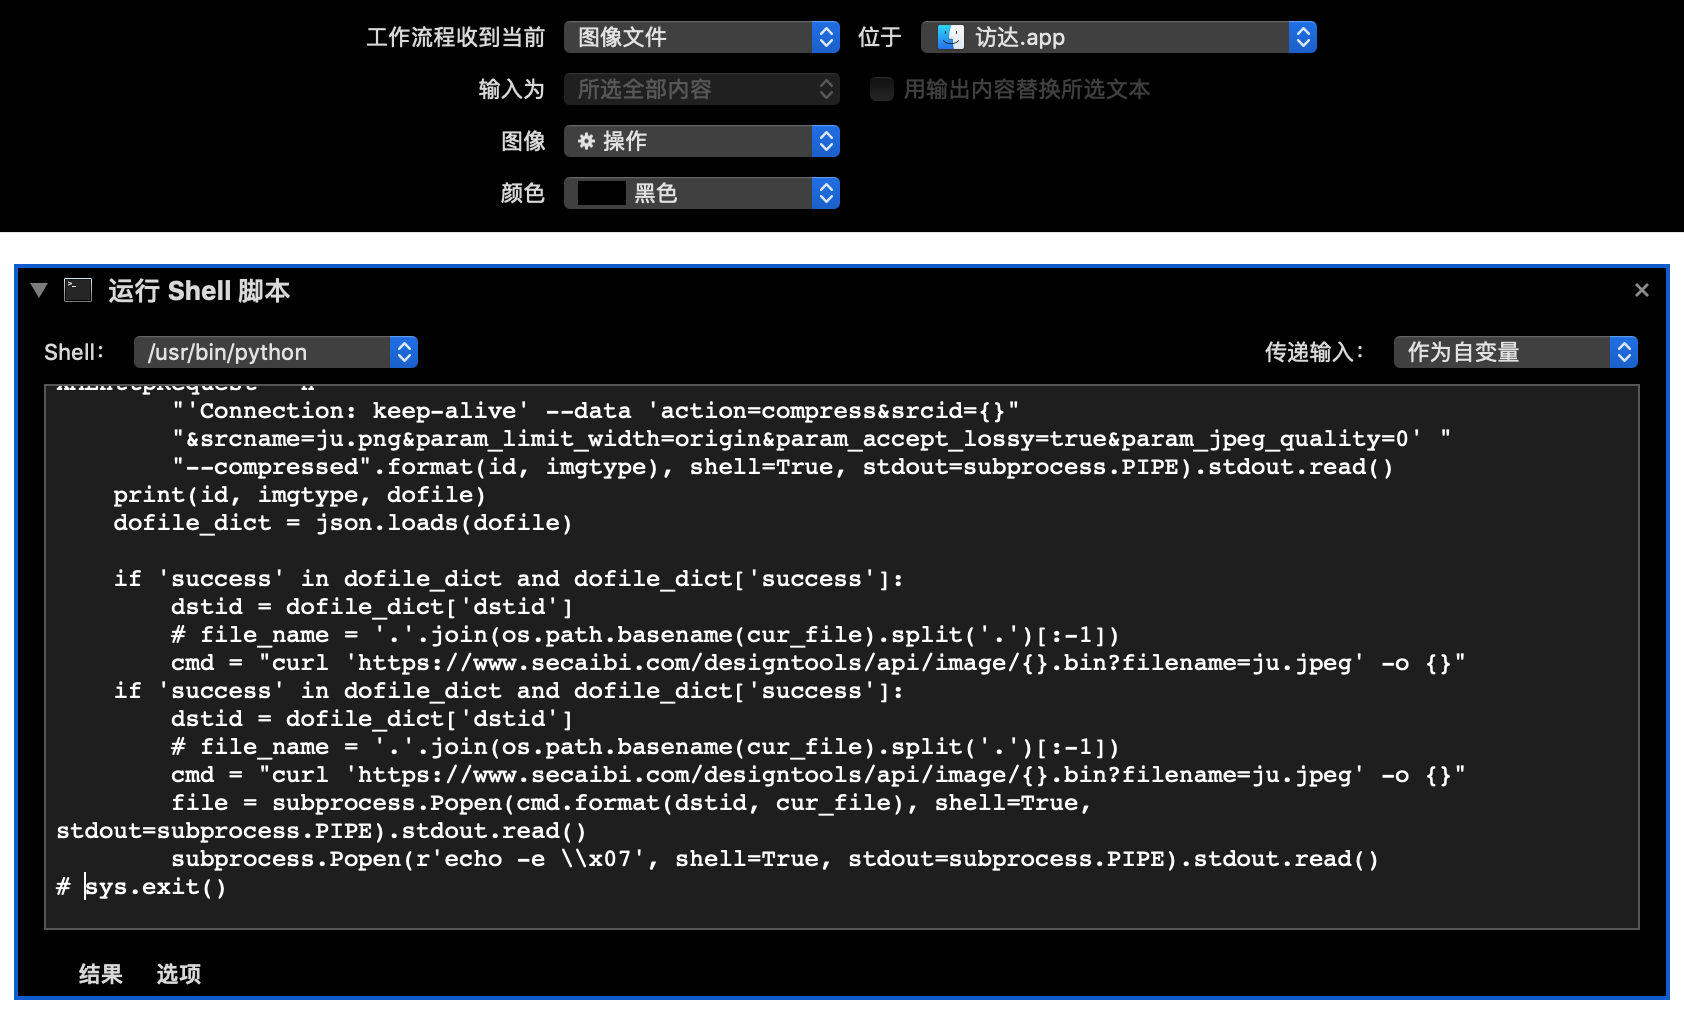
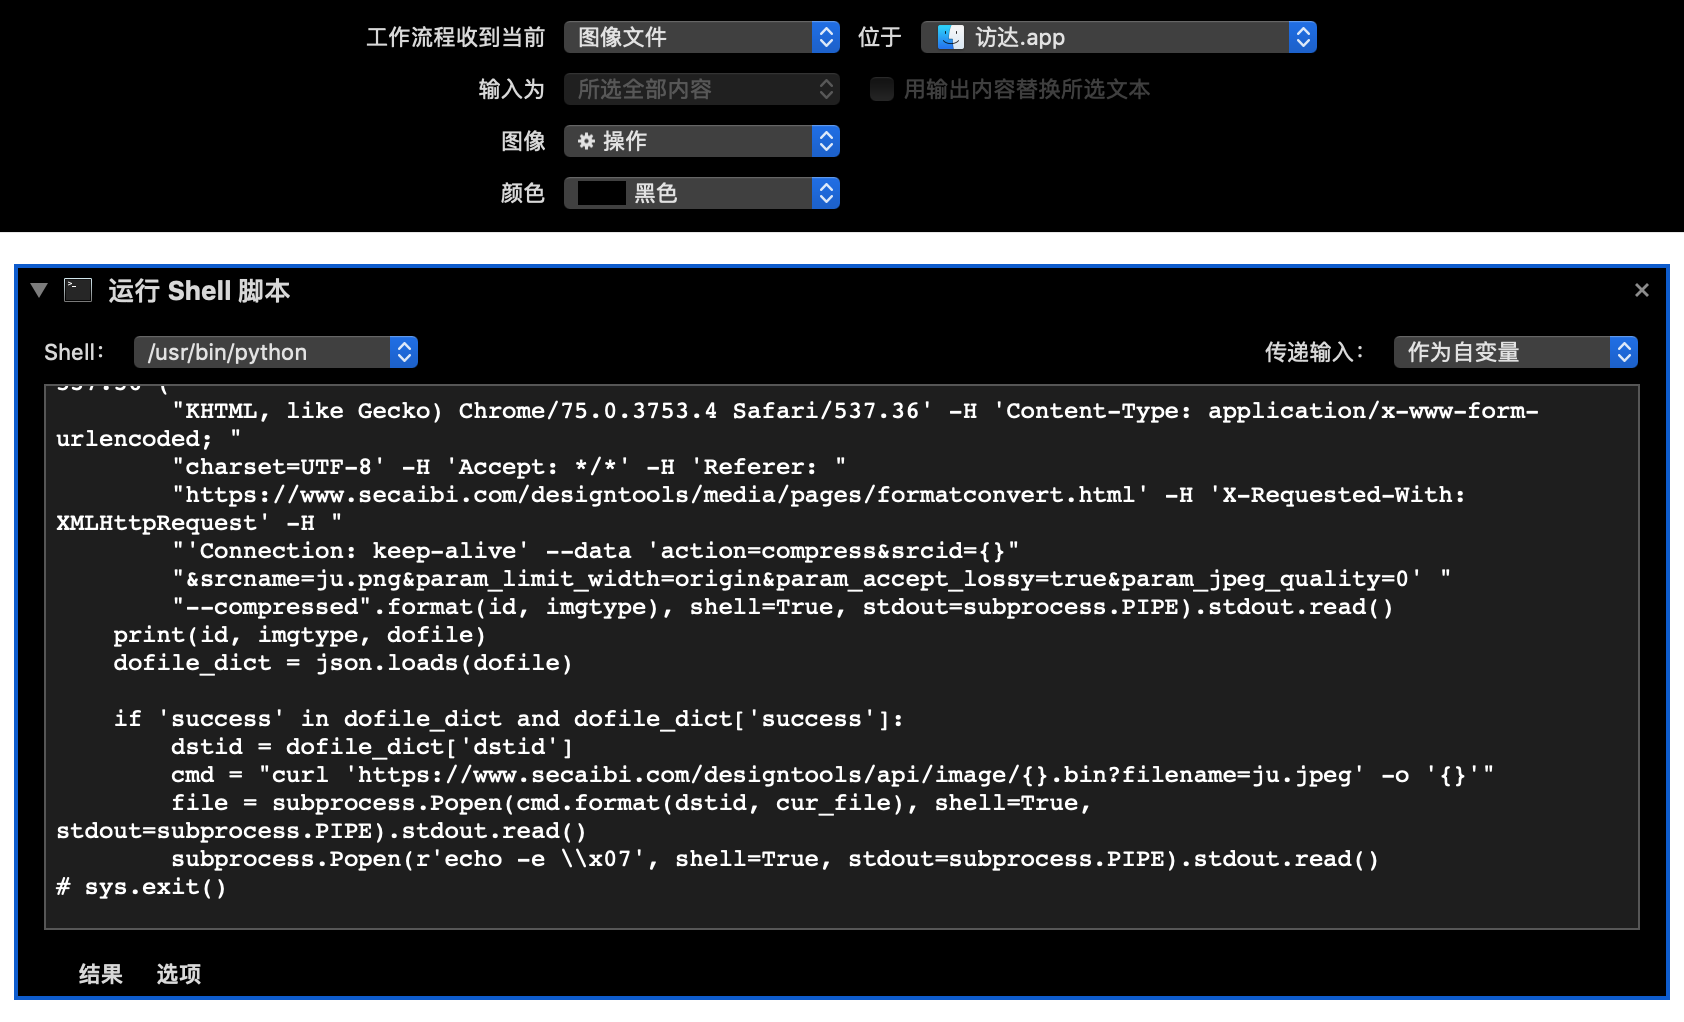
fixed path with space

Changed region(s): [[0.0309, 0.364, 0.9264, 0.7583], [0.8337, 0.637, 0.8646, 0.6673], [0.6176, 0.728, 0.6485, 0.7583]]

diff --git a/secaibi.py b/secaibi.py
@@ -5,7 +5,7 @@ import sys
 from mimetypes import MimeTypes
 import urllib
 
-cur_file = sys.argv[1] if len(sys.argv) > 1 else '~/Downloads/ju.png'
+cur_file = sys.argv[1] if len(sys.argv) > 1 else '/Users/zhonglvgui/Downloads/ju.png'
 mime = MimeTypes()
 url = urllib.pathname2url(cur_file)
 mime_type = mime.guess_type(url)[0]
@@ -42,8 +42,7 @@ if 'id' in upfile_dict and upfile_dict['id']:
 
     if 'success' in dofile_dict and dofile_dict['success']:
         dstid = dofile_dict['dstid']
-        # file_name = '.'.join(os.path.basename(cur_file).split('.')[:-1])
-        cmd = "curl 'https://www.secaibi.com/designtools/api/image/{}.bin?filename=ju.jpeg' -o {}"
+        cmd = "curl 'https://www.secaibi.com/designtools/api/image/{}.bin?filename=ju.jpeg' -o '{}'"
         file = subprocess.Popen(cmd.format(dstid, cur_file), shell=True, stdout=subprocess.PIPE).stdout.read()
-        subprocess.Popen('echo ok', shell=True, stdout=subprocess.PIPE).stdout.read()
-sys.exit()
+        subprocess.Popen(r'echo -e \\x07', shell=True, stdout=subprocess.PIPE).stdout.read()
+# sys.exit()
